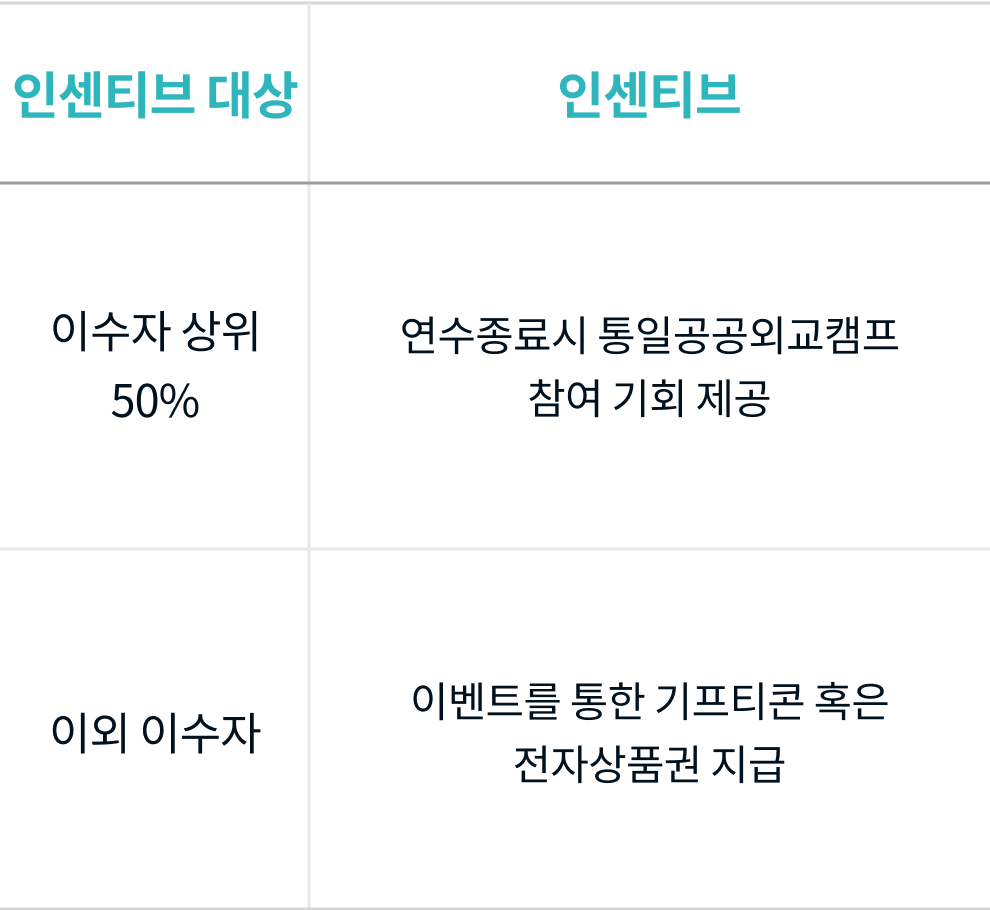
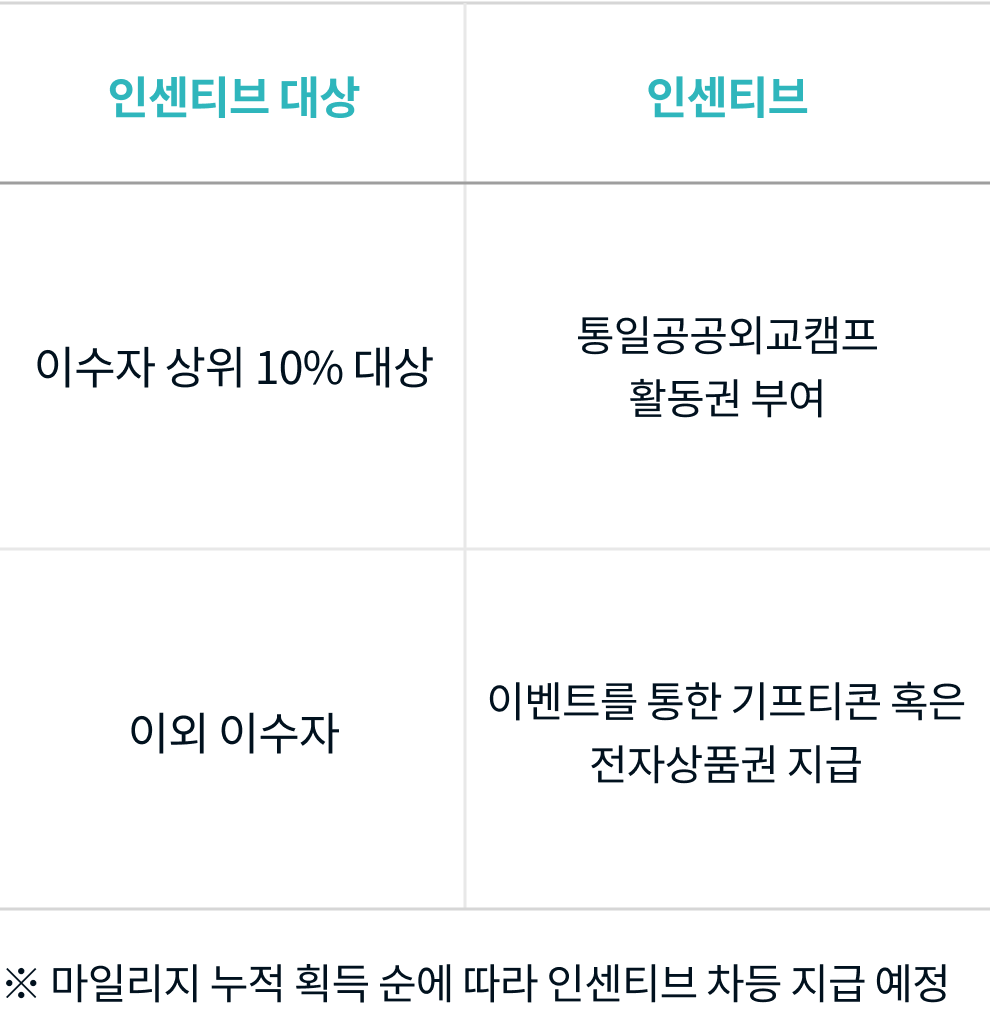
개요, 연수편성표 이미지 변경

diff --git a/pages/course-introduction/summary.tsx b/pages/course-introduction/summary.tsx
@@ -445,12 +445,12 @@ const Greeting: NextPage = () => {
           <div className='mt-4 text-[1.125rem] leading-[1.856rem] md:mt-[0.313rem] md:text-[0.875rem] md:leading-[1.444rem]'>
             {text.summary['44']}
           </div>
-          <div className='flex md:block'>
+          <div className=''>
             <div className='mr-[1.375rem] mt-[2.313rem] md:mt-7 md:mr-0'>
               <div className='text-[1.125rem] leading-[1.688rem]'>
                 {text.summary['45']}
               </div>
-              <div className='relative mt-3 h-[302px] w-[580px] md:hidden'>
+              <div className='relative mt-3 h-[365px] w-full md:hidden'>
                 <Image
                   src={imgFilter(
                     locale,
@@ -467,7 +467,7 @@ const Greeting: NextPage = () => {
               </div>
               <div
                 className={cls(
-                  clsFilter(locale, 'h-[497px]', 'h-[453px]', 'h-[453px]'),
+                  clsFilter(locale, 'h-[455px]', 'h-[465px]', 'h-[465px]'),
                   'relative mt-3 hidden w-full md:block'
                 )}
               >
@@ -490,7 +490,7 @@ const Greeting: NextPage = () => {
               <div className='text-[1.125rem] leading-[1.688rem]'>
                 {text.summary['46']}
               </div>
-              <div className='relative mt-3 h-[302px] w-[580px] md:hidden'>
+              <div className='relative mt-3 h-[208px] w-full md:hidden'>
                 <Image
                   src={imgFilter(
                     locale,
@@ -505,7 +505,12 @@ const Greeting: NextPage = () => {
                   quality={100}
                 />
               </div>
-              <div className='relative mt-3 hidden h-[302px] w-full md:block'>
+              <div
+                className={cls(
+                  clsFilter(locale, 'h-[335px]', 'h-[355px]', 'h-[355px]'),
+                  'relative mt-3 hidden w-full md:block'
+                )}
+              >
                 <Image
                   src={imgFilter(
                     locale,
